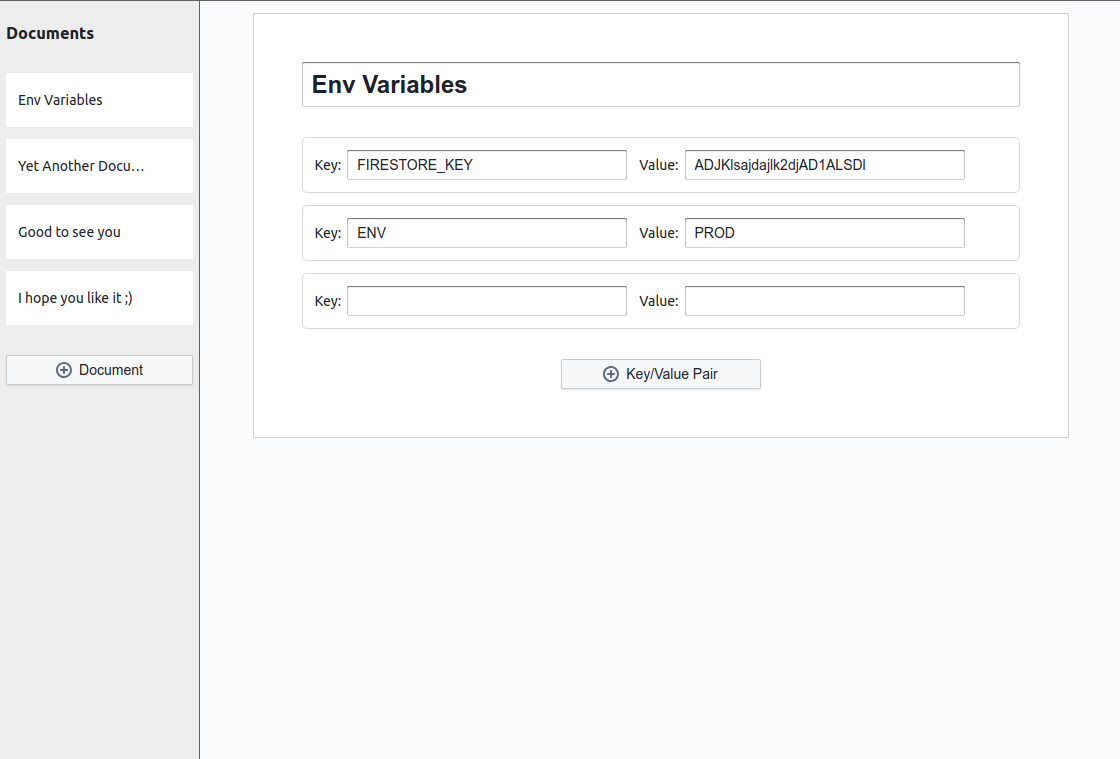
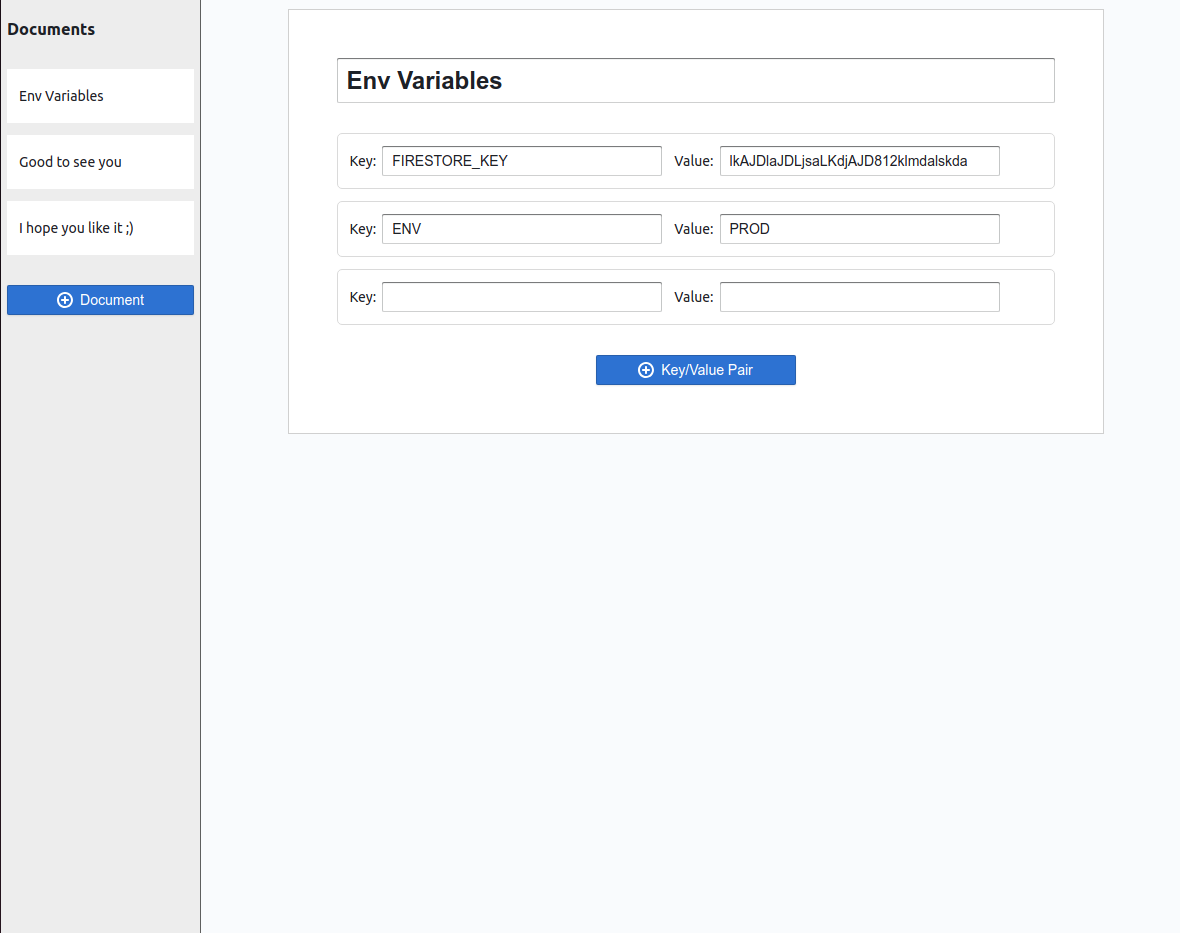
Set buttons' intent to "primary"

diff --git a/client/src/components/document-writer/document-writer.tsx b/client/src/components/document-writer/document-writer.tsx
@@ -39,7 +39,7 @@ const DocumentWriter_ = (props: IDocumentWriterProps): React.JSX.Element => {
             onMoveDown={() => doc.moveDocumentValueDown(docValue.id)}
           />
         ))}
-        <Button className={styles.button} icon="add" onClick={addDocumentValue}>
+        <Button className={styles.button} icon="add" intent="primary" onClick={addDocumentValue}>
           Key/Value Pair
         </Button>
       </>

diff --git a/client/src/components/documents-list/documents-list.tsx b/client/src/components/documents-list/documents-list.tsx
@@ -27,6 +27,7 @@ const DocumentsList_ = (props: IDocumentsListProps): React.JSX.Element => {
       ))}
       <Button
         icon="add"
+        intent="primary"
         className={cn({ [styles.button]: props.documents.length })}
         onClick={() => props.addNewDoc()}
       >
